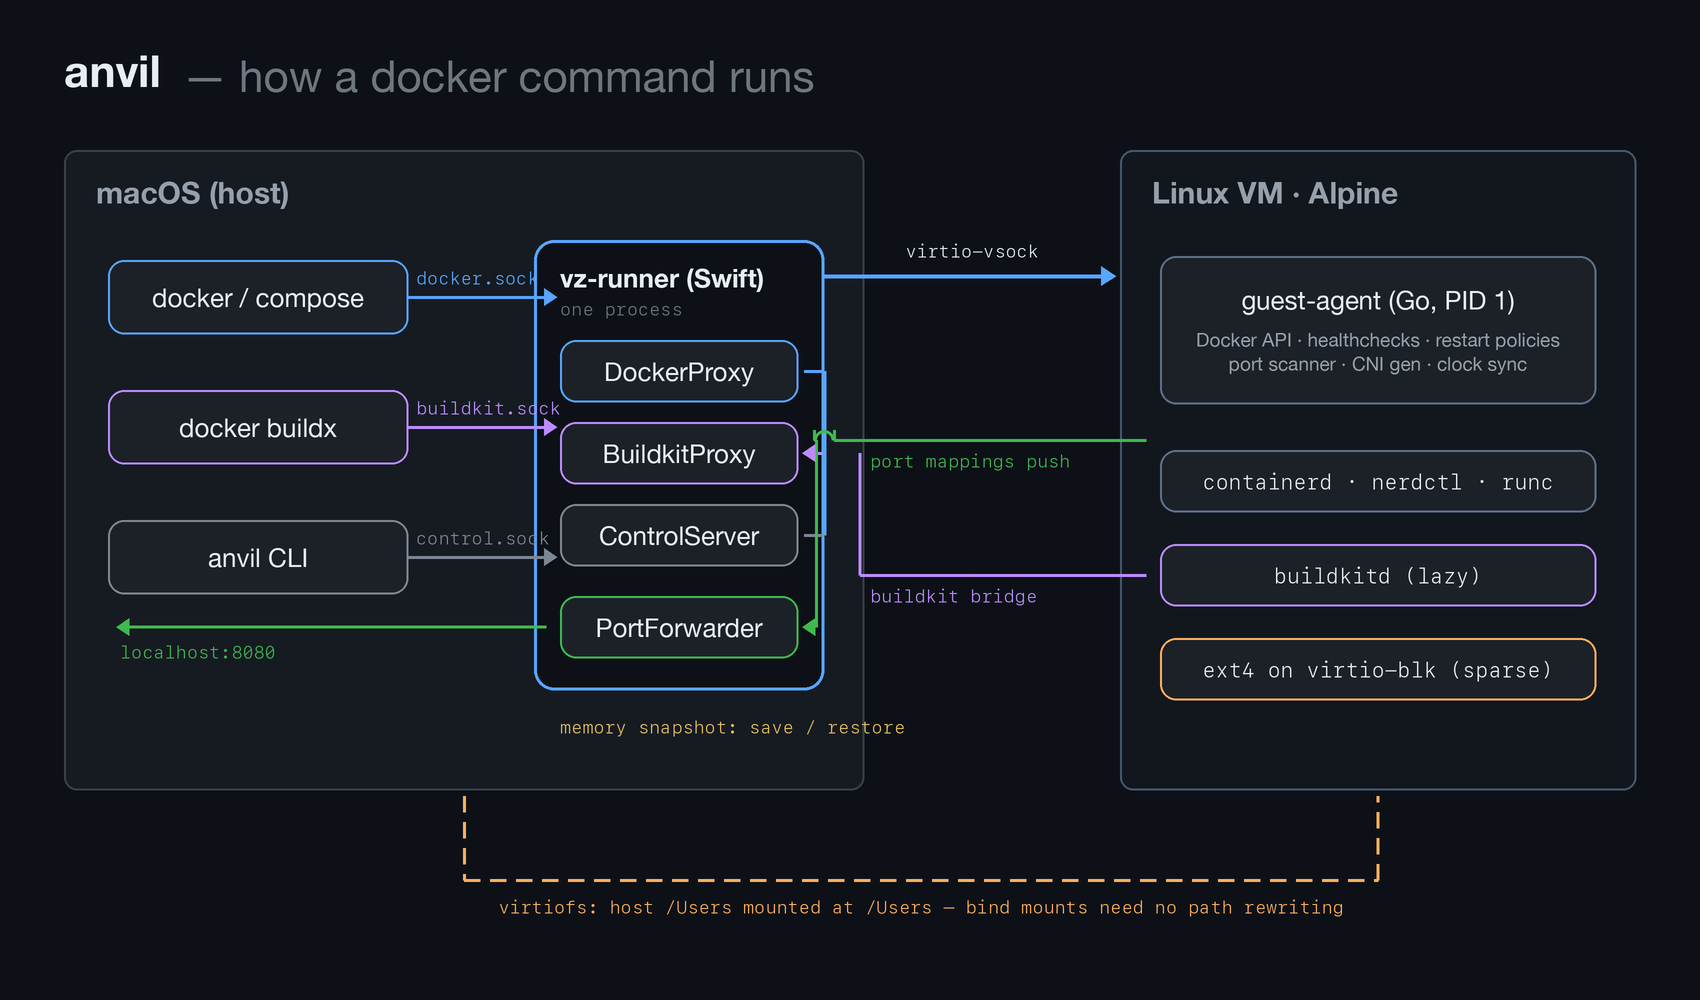
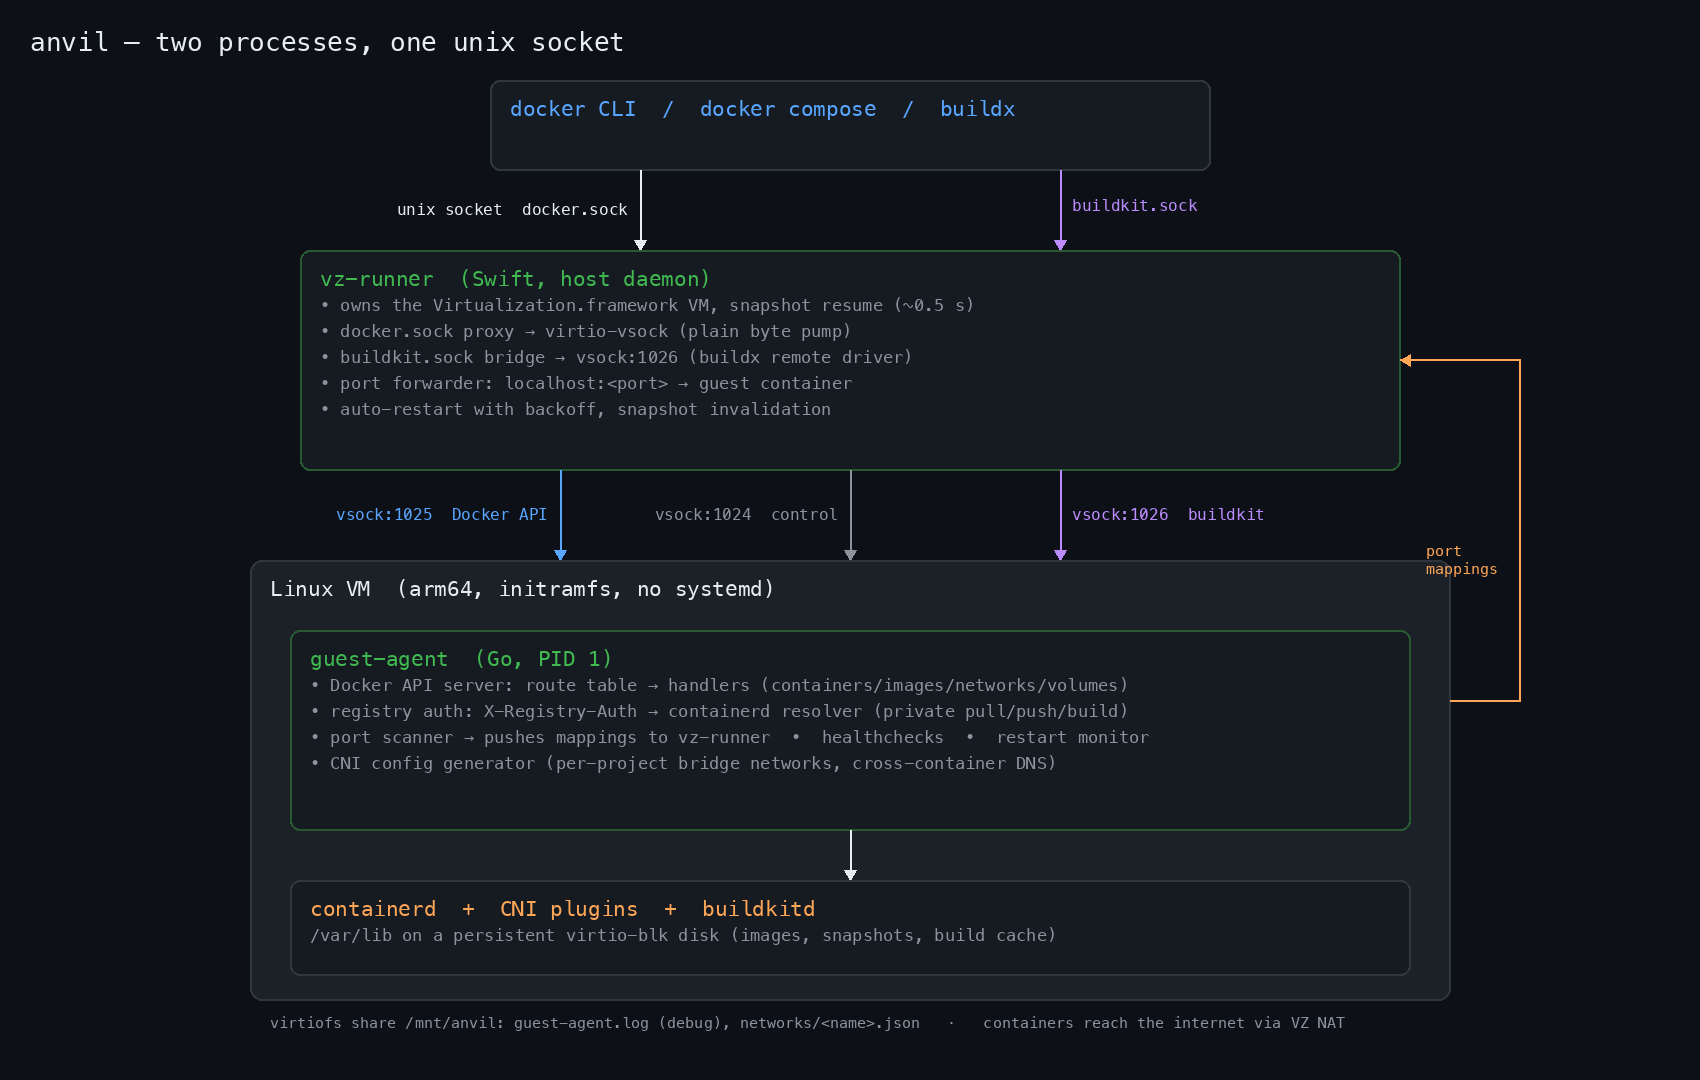
docs: architecture diagram v3 — registry auth, buildkit bridge, route table
The old PNG was drawn by a lost local-only script; the generator now
lives in scripts/make_arch_diagram.py (PIL, same GitHub-dark style).
New in the picture: the buildx/buildkit.sock path (vsock:1026 bridge to
a lazily started buildkitd), the X-Registry-Auth flow into the
containerd resolver, the route-table Docker API server, and the
port-scanner feedback loop back to vz-runner.

diff --git a/scripts/make_arch_diagram.py b/scripts/make_arch_diagram.py
@@ -1,0 +1,118 @@
+#!/usr/bin/env python3
+"""Render arch-diagram.png — the two-process architecture picture.
+
+The original was drawn by a local-only script (lost); this is a rewrite
+with the same look (GitHub-dark boxes, layered host/guest zones). Rerun
+after architectural changes:
+
+    python3 scripts/make_arch_diagram.py
+"""
+from PIL import Image, ImageDraw, ImageFont
+
+W, H = 1700, 1080
+BG = (13, 17, 23)
+BOX = (22, 27, 34)
+BOX_INNER = (28, 33, 40)
+BORDER = (48, 54, 61)
+FG = (230, 237, 243)
+GRAY = (139, 148, 158)
+GREEN = (63, 185, 80)
+BLUE = (88, 166, 255)
+PURPLE = (188, 140, 255)
+ORANGE = (255, 166, 87)
+
+F = lambda s: ImageFont.truetype("/System/Library/Fonts/Menlo.ttc", s)
+
+
+def text_w(d, s, font):
+    return d.textlength(s, font=font)
+
+
+def box(d, x0, y0, x1, y1, title, color, lines=(), border=None, tfont=None):
+    d.rounded_rectangle([x0, y0, x1, y1], radius=10, fill=BOX,
+                        outline=border or BORDER, width=2)
+    tf = tfont or F(21)
+    d.text((x0 + 20, y0 + 16), title, fill=color, font=tf)
+    y = y0 + 16 + (tf.size if hasattr(tf, "size") else 28) + 8
+    for ln in lines:
+        d.text((x0 + 20, y), ln, fill=GRAY, font=F(17))
+        y += 26
+    return y
+
+
+def arrow(d, x0, y0, x1, y1, color, label=None, label_side="right"):
+    d.line([x0, y0, x1, y1], fill=color, width=2)
+    # arrowhead at (x1, y1), vertical only in this diagram
+    d.polygon([(x1 - 6, y1 - 10), (x1 + 6, y1 - 10), (x1, y1)], fill=color)
+    if label:
+        lf = F(16)
+        if label_side == "right":
+            d.text((x1 + 12, (y0 + y1) // 2 - 10), label, fill=color, font=lf)
+        else:
+            w = text_w(d, label, lf)
+            d.text((x1 - w - 12, (y0 + y1) // 2 - 10), label, fill=color, font=lf)
+
+
+def main():
+    img = Image.new("RGB", (W, H), BG)
+    d = ImageDraw.Draw(img)
+
+    d.text((30, 26), "anvil — two processes, one unix socket",
+           fill=FG, font=F(26))
+
+    # --- CLI layer ---
+    box(d, 490, 80, 1210, 170, "docker CLI  /  docker compose  /  buildx", BLUE)
+    arrow(d, 640, 170, 640, 250, FG, "unix socket  docker.sock", "left")
+    d.line([1060, 170, 1060, 250], fill=PURPLE, width=2)
+    d.polygon([(1054, 240), (1066, 240), (1060, 250)], fill=PURPLE)
+    d.text((1072, 196), "buildkit.sock", fill=PURPLE, font=F(16))
+
+    # --- Host: vz-runner ---
+    y = box(d, 300, 250, 1400, 470, "vz-runner  (Swift, host daemon)", GREEN, [
+        "• owns the Virtualization.framework VM, snapshot resume (~0.5 s)",
+        "• docker.sock proxy → virtio-vsock (plain byte pump)",
+        "• buildkit.sock bridge → vsock:1026 (buildx remote driver)",
+        "• port forwarder: localhost:<port> → guest container",
+        "• auto-restart with backoff, snapshot invalidation",
+    ], border=(40, 90, 50))
+
+    # --- vsock channels into the guest ---
+    arrow(d, 560, 470, 560, 560, BLUE, "vsock:1025  Docker API", "left")
+    arrow(d, 850, 470, 850, 560, GRAY, "vsock:1024  control", "left")
+    arrow(d, 1060, 470, 1060, 560, PURPLE, "vsock:1026  buildkit", "right")
+
+    # --- Guest VM ---
+    d.rounded_rectangle([250, 560, 1450, 1000], radius=12,
+                        fill=BOX_INNER, outline=BORDER, width=2)
+    d.text((270, 576), "Linux VM  (arm64, initramfs, no systemd)", fill=FG, font=F(21))
+
+    box(d, 290, 630, 1410, 830, "guest-agent  (Go, PID 1)", GREEN, [
+        "• Docker API server: route table → handlers (containers/images/networks/volumes)",
+        "• registry auth: X-Registry-Auth → containerd resolver (private pull/push/build)",
+        "• port scanner → pushes mappings to vz-runner  •  healthchecks  •  restart monitor",
+        "• CNI config generator (per-project bridge networks, cross-container DNS)",
+    ], border=(40, 90, 50))
+
+    arrow(d, 850, 830, 850, 880, FG, None)
+    box(d, 290, 880, 1410, 975, "containerd  +  CNI plugins  +  buildkitd", ORANGE, [
+        "/var/lib on a persistent virtio-blk disk (images, snapshots, build cache)",
+    ])
+
+    # port scanner feedback loop (guest → host)
+    d.line([1450, 700, 1520, 700, 1520, 360, 1400, 360],
+           fill=ORANGE, width=2)
+    d.polygon([(1410, 354), (1410, 366), (1400, 360)], fill=ORANGE)
+    d.text((1462, 560), "port\nmappings", fill=ORANGE, font=F(15), anchor="mm")
+
+    # virtiofs share
+    d.text((270, 1014),
+           "virtiofs share /mnt/anvil: guest-agent.log (debug), networks/<name>.json   ·   "
+           "containers reach the internet via VZ NAT",
+           fill=GRAY, font=F(15))
+
+    img.save("arch-diagram.png")
+    print("arch-diagram.png", img.size)
+
+
+if __name__ == "__main__":
+    main()
